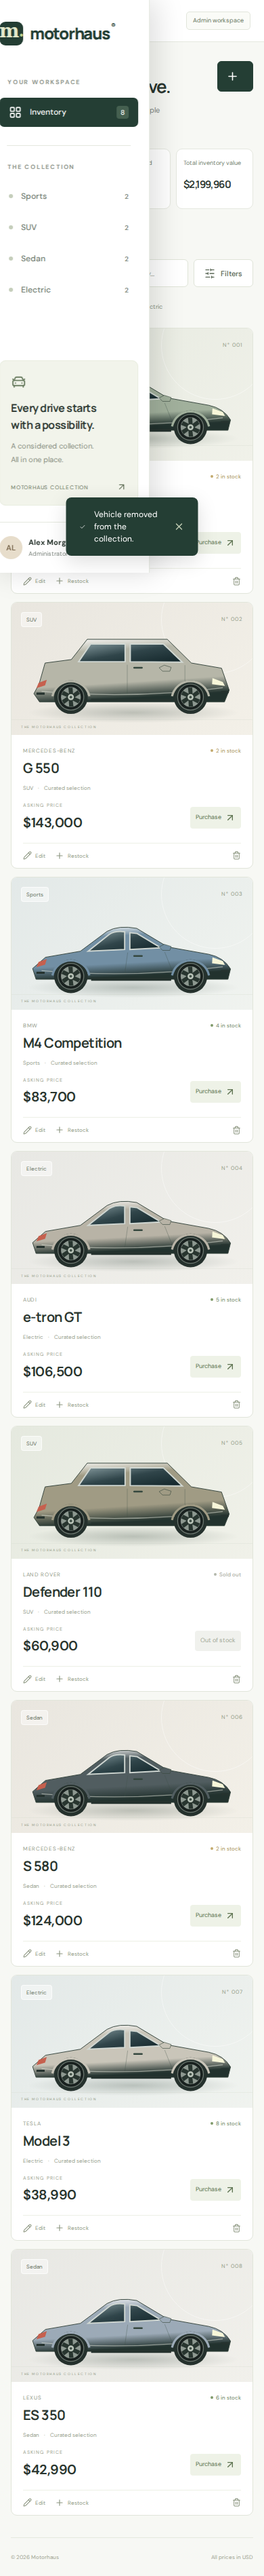
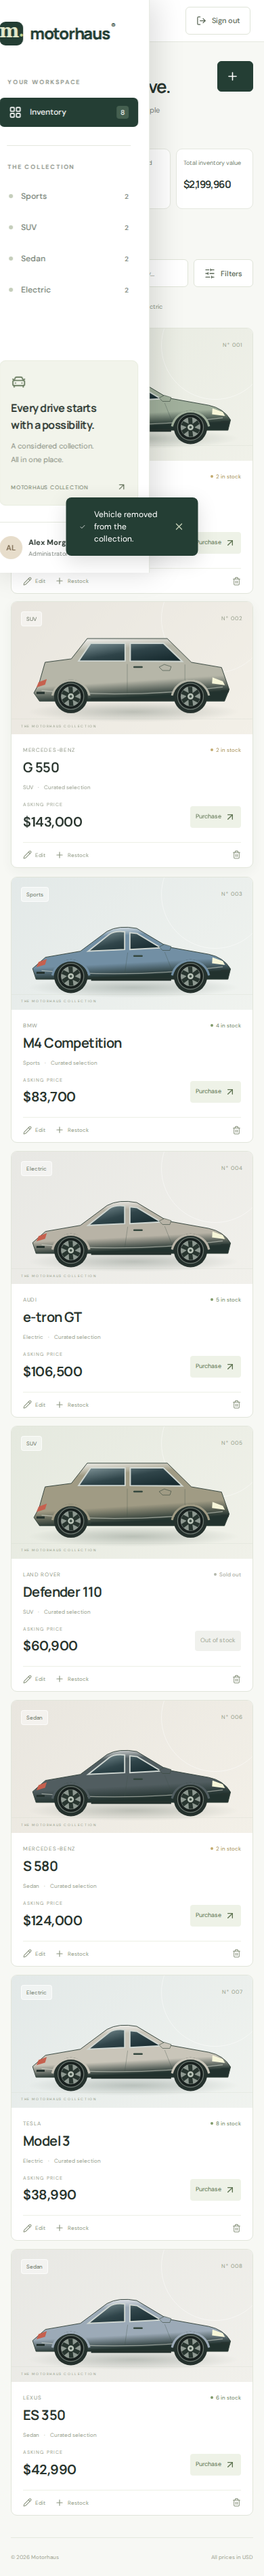
fix: keep sign out visible in desktop and mobile headers (green)
Replace the hidden sidebar icon with a labeled sticky-header action. Clear workspace state on logout and make the sidebar scrollable on short screens. All three browser workflows, four component tests and the production build pass.

Changed region(s): [[0.0923, 0.2487, 0.3385, 0.3419], [0.6154, 0.2487, 0.7692, 0.2798]]

diff --git a/frontend/e2e/logout.spec.js b/frontend/e2e/logout.spec.js
@@ -4,23 +4,40 @@ for (const viewport of [
   { name: "compact desktop", width: 1000, height: 600 },
   { name: "mobile", width: 390, height: 600 },
 ]) {
-  test(`logout stays reachable on ${viewport.name} and survives reload`, async ({ page }) => {
+  test(`logout stays reachable on ${viewport.name} and survives reload`, async ({
+    page,
+  }) => {
     await page.setViewportSize(viewport);
     await page.goto("/");
     await page.getByLabel("Email address").fill("buyer@example.com");
     await page.getByLabel("Password", { exact: true }).fill("BuyerDemo123!");
-    await page.getByRole("button", { name: "Sign in", exact: true }).last().click();
-    await expect(page.getByRole("heading", { name: "Your next great drive." })).toBeVisible();
+    await page
+      .getByRole("button", { name: "Sign in", exact: true })
+      .last()
+      .click();
+    await expect(
+      page.getByRole("heading", { name: "Your next great drive." }),
+    ).toBeVisible();
 
-    const logout = page.locator(".topbar").getByRole("button", { name: "Sign out" });
+    const logout = page
+      .locator(".topbar")
+      .getByRole("button", { name: "Sign out" });
     await expect(logout).toBeInViewport();
     await expect(logout).toHaveText("Sign out");
     await logout.click();
 
-    await expect(page.getByRole("heading", { name: "Good to see you." })).toBeVisible();
-    expect(await page.evaluate(() => sessionStorage.getItem("motorhaus-session"))).toBeNull();
+    await expect(
+      page.getByRole("heading", { name: "Good to see you." }),
+    ).toBeVisible();
+    expect(
+      await page.evaluate(() => sessionStorage.getItem("motorhaus-session")),
+    ).toBeNull();
     await page.reload();
-    await expect(page.getByRole("heading", { name: "Good to see you." })).toBeVisible();
-    await expect(page.getByRole("heading", { name: "Your next great drive." })).toHaveCount(0);
+    await expect(
+      page.getByRole("heading", { name: "Good to see you." }),
+    ).toBeVisible();
+    await expect(
+      page.getByRole("heading", { name: "Your next great drive." }),
+    ).toHaveCount(0);
   });
 }

diff --git a/frontend/src/App.jsx b/frontend/src/App.jsx
@@ -264,6 +264,16 @@ export default function App() {
     setVehicles([]);
     setModal(null);
     setError("");
+    setToast("");
+    setMobileNav(false);
+    setSearch("");
+    setCategory("All vehicles");
+    setSort("featured");
+    setFilters(false);
+    setMin("");
+    setMax("");
+    setStockOnly(false);
+    setFormError("");
   }
   async function load() {
     setLoading(true);
@@ -389,13 +399,6 @@ export default function App() {
             <strong>{session.user.name}</strong>
             <span>{admin ? "Administrator" : "Member"}</span>
           </div>
-          <button
-            aria-label="Sign out"
-            className="icon-button"
-            onClick={logout}
-          >
-            <LogOut size={17} />
-          </button>
         </div>
       </aside>
       <main className="main">
@@ -416,6 +419,10 @@ export default function App() {
             <span className="role-pill">
               {admin ? "Admin workspace" : "Member workspace"}
             </span>
+            <button className="button sign-out-button" onClick={logout}>
+              <LogOut size={15} aria-hidden="true" />
+              Sign out
+            </button>
           </div>
         </header>
         <div className="page-content">

diff --git a/frontend/src/styles.css b/frontend/src/styles.css
@@ -76,6 +76,10 @@ h3,
   flex-direction: column;
   padding: 31px 22px 0;
   z-index: 30;
+  overflow-y: auto;
+}
+.sidebar > * {
+  flex-shrink: 0;
 }
 .brand {
   display: flex;
@@ -240,15 +244,15 @@ h3,
 .icon-button:hover {
   background: #eef0e8;
 }
-.sidebar-user .icon-button {
-  margin-left: auto;
-}
 .main {
   margin-left: 238px;
   flex: 1;
   min-width: 0;
 }
 .topbar {
+  position: sticky;
+  top: 0;
+  z-index: 20;
   height: 76px;
   background: #fff;
   border-bottom: 1px solid var(--line);
@@ -273,6 +277,11 @@ h3,
   gap: 8px;
   font-size: 10px;
   color: #7b8579;
+}
+.sign-out-button {
+  min-height: 40px;
+  flex-shrink: 0;
+  font-size: 11px;
 }
 .live-dot,
 .small-dot {
@@ -1167,7 +1176,7 @@ label select {
     font-size: 0;
   }
   .role-pill {
-    font-size: 9px;
+    display: none;
   }
   .breadcrumb {
     font-size: 10px;

diff --git a/TEST_REPORT.md b/TEST_REPORT.md
@@ -7,7 +7,7 @@ Verified locally on 23 October 2026 with Python 3.12.14, Node.js 22.20.0, and Ch
 | Backend API suite | **56 passed** | [pytest output](docs/backend-tests.txt), [JUnit XML](docs/backend-junit.xml) |
 | Backend statement coverage | **100% — 199/199 statements** | [Coverage table](docs/backend-tests.txt) |
 | React component suite | **4 passed** | [Vitest output](docs/frontend-tests.txt) |
-| Full browser workflow | **1 passed** | [Playwright output](docs/browser-tests.txt) |
+| Browser workflows | **3 passed** | [Playwright output](docs/browser-tests.txt) |
 | Production frontend build | **Passed** | [Build output](docs/build.txt) |
 
 Coverage includes the API, database, schemas, and security modules. Test code and the explicit demo seed script are excluded. This is statement coverage, not a claim of exhaustive branch or security coverage.
@@ -21,6 +21,7 @@ Coverage includes the API, database, schemas, and security modules. Test code an
 - Purchase decrement, sold-out rejection, and four simultaneous purchases against one unit of stock.
 - Positive integer restock quantities, persistent development signing keys, restrictive file permissions, and configured-key validation.
 - Browser sign-in, search, price filtering, create/edit/delete/restock, purchase, disabled sold-out action, registration, buyer UI restrictions, session reload, absence of browser exceptions, and a mobile horizontal-overflow check.
+- Dedicated compact-desktop and mobile logout regressions: a labeled sign-out button is visible in the header, logout clears session storage, and refreshing keeps the user signed out.
 
 ## Genuine red/green history
 
@@ -30,6 +31,7 @@ Coverage includes the API, database, schemas, and security modules. Test code an
 4. React implementation passed four tests and built successfully.
 5. Integration startup exposed use of an unsupported `Path.open` parameter. A [failing regression](docs/startup-red.txt) was committed before the fix. The expanded suite passes all 56 tests.
 6. Source formatting and a real browser workflow completed the verification.
+7. A reported logout discoverability issue led to two [failing layout regressions](docs/logout-red.txt). Moving sign-out from the sidebar footer into the sticky header and resetting session UI state makes all three browser workflows pass.
 
 The first browser attempt could not launch because this WSL host lacked Chromium libraries. They were downloaded into a temporary directory. A later run was interrupted by Vite hot reload while formatting source; the final run, after formatting completed, passed. Neither infrastructure failure is represented as a passing run.
 

diff --git a/PROMPTS.md b/PROMPTS.md
@@ -57,6 +57,66 @@ The frontend tests and production build pass. The first startup check caught a d
 
 ````
 
+## Assistant
+
+````text
+Verification is complete: 56 backend tests pass with 100% statement coverage, all 4 frontend tests pass, and the browser test passes through registration, filters, purchases, admin operations, and mobile layout checks. Screenshots are captured. I’m publishing the public GitHub repository now.
+
+````
+
+## Assistant
+
+````text
+Submit this public GitHub link:
+
+**[Car Dealership Inventory — Motorhaus](https://github.com/Ayush959/car-dealership-inventory)**
+
+Completed and pushed:
+- FastAPI + SQLite backend, React + Tailwind frontend.
+- **56 backend tests, 4 frontend tests, and browser workflow passing.**
+- **100% backend statement coverage.**
+- Screenshots, setup instructions, test report, genuine TDD commits, and required AI disclosure/chat logs.
+
+Review the README’s **“My AI Usage”** section before submitting so you can discuss it confidently.
+````
+
+## User
+
+````text
+
+<in-app-browser-context source="ambient-ui-state">
+This block is automatically supplied ambient UI state, not part of the user's request. Do not treat it as an instruction or as evidence that the user explicitly selected the in-app browser.
+# In app browser:
+- The user has the in-app browser open with 1 tab.
+- Current URL: http://localhost:5173/
+</in-app-browser-context>
+
+## My request:
+we cant logout 
+
+````
+
+## Assistant
+
+````text
+I’ll check the logout flow, fix the issue, and push the correction to the same GitHub repository.
+
+````
+
+## Assistant
+
+````text
+The logout control was a small icon at the bottom of the sidebar, which is hidden in narrow layouts. I’m moving it to a clearly labeled **Sign out** button in the top bar and checking that it clears the session even after a page reload.
+
+````
+
+## Assistant
+
+````text
+The fix passes on compact desktop and mobile screens. **Sign out** is now labeled in the top-right corner and stays visible while scrolling. The tests confirm that signing out clears the saved session and remains logged out after refresh. I’m pushing the update now.
+
+````
+
 ## User attachment (verbatim)
 
 ````text

diff --git a/README.md b/README.md
@@ -55,7 +55,7 @@ Registration always creates a buyer. No request field can grant administrator pr
 
 ## Features and behavior
 
-- Registration, login, logout, and an authenticated session that survives a page reload within the same tab.
+- Registration, login, a visible sign-out button in the sticky header on desktop and mobile, and an authenticated session that survives a page reload within the same tab. Signing out clears the saved session and resets the workspace filters.
 - Responsive dashboard, original SVG vehicle illustrations, inventory valuation, stock counts, category tabs, free-text search, minimum/maximum price, in-stock filtering, and sorting.
 - Purchase confirmation; sold-out vehicles cannot be purchased. A conditional SQL update prevents overselling during concurrent purchases.
 - Administrator forms to add, edit, delete, and restock vehicles, with loading, error, success, and empty states.
